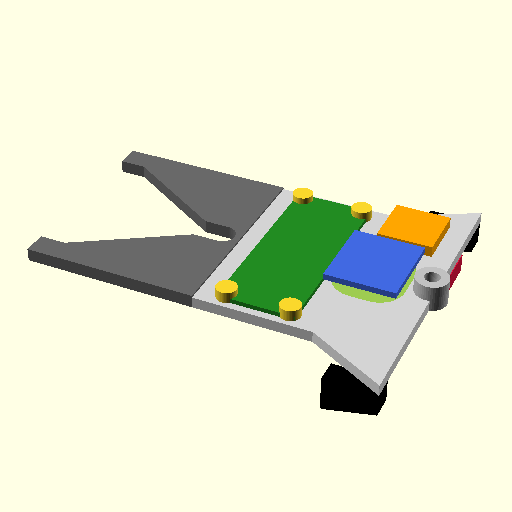
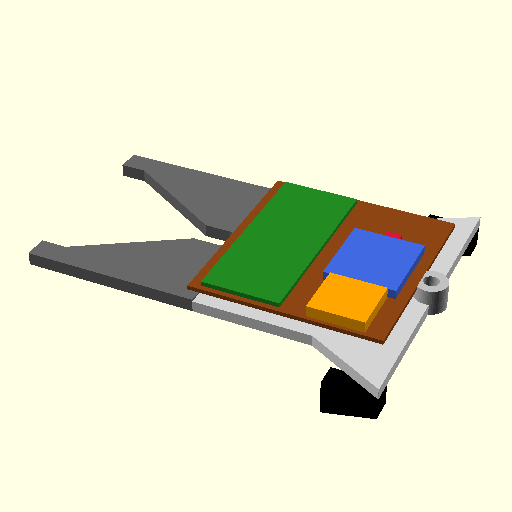
Fixture: consolidate electronics onto one shared strip-board PCB
The deck now explicitly plays the role of the PMW3360 datasheet's
"Customer Supplied Base Plate with Recommended Opening" (Fig. 8),
documented as such in the header. Adds shared_pcb(): a single 1.11mm
strip board mounted on standoffs above the deck (Fig. 4's PCB-to-base-
plate gap) carrying the Pico 2 W, PMW3360, ICM-42688-P, and IR lap
sensor together, wired point-to-point along its copper strips instead
of as four separate breakouts — replacing the old individual
pico_mount()/icm_mount()/pmw_chip_visual().

The IR sensor is sized from real datasheets (tmp/QRE1113.pdf,
tmp/TCRT5000.pdf): QRE1113's low-profile through-hole body fits the
fixture's ground clearance, while TCRT5000's 7mm body does not. Its
sensing body still hangs below the deck on bent leads through a new
ir_lead_hole(), positioned by the same layout math as the rest of the
board. Verified no component footprints overlap and the board fits
within spine_width.

Claude-Session: https://claude.ai/code/session_01VB3CcWWzDiHBSoPq5HJz8G

Changed region(s): [[0.0312, 0.2812, 0.9375, 0.8125], [0.7812, 0.6562, 0.8125, 0.6875], [0.7188, 0.8125, 0.75, 0.8438]]

diff --git a/CLAUDE.md b/CLAUDE.md
@@ -26,7 +26,7 @@ The physical build is a cut-and-graft of a donor **Scaleauto HS-124** slot car c
 - `a6_binary.py` — **historical, not used by current firmware.** A desktop-only conversion script (adapted from `mrjohnk/ADNS-9800`) that embeds the *ADNS-9800's* SROM as a `frame` byte array and writes it to `adns_9800_srom_a6.bin` when run with `python a6_binary.py` on a regular computer. Left in place as a worked example of "how to turn a vendor SROM binary into a Python byte array" — that's the technique still needed for `pmw3360.py`'s placeholder, just with the PMW3360's own SROM file instead of the ADNS-9800's.
 - `wifimanager.py` — an async `WiFiManager` class (`network` + `asyncio`, MicroPython-only) that connects to a list of known SSIDs and monitors/reconnects. Hardcoded `WIFI_NETWORKS` credentials near the bottom are placeholders. Standalone: not currently imported by `main.py`.
 - `README.md` — the *original* design notes/scratchpad, from before this project settled on PMW3360/ICM-42688-P/Pico 2 W — largely superseded by `DESIGN.md` now. Its SROM/SD-card conversion walkthrough is ADNS-9800-specific and no longer the plan.
-- `cad/fixture.scad` — parametric OpenSCAD model of the front sensor fixture (`DESIGN.md` §7). All donor-chassis dimensions are now from calipers, including the front-of-motor carrier's wedge-and-tab profile (`tmp/chassis-front-of-motor.jpeg`) that the kept rear section presents at the cut instead of a flat face — `carrier_interface()` notches the fixture's leading edge to mirror that exact outline (a flush, self-aligning butt joint, `carrier_h` = 3.5mm thick to match), which elongated the fixture to a measured 102.5mm total (up from the original ~65mm estimate) so the Pico/sensor zone ahead of the interface keeps the same usable length it had before — still tight enough that the Pico 2 W is mounted rotated 90° to fit. The second (rear) guide pin no longer has fixture-side geometry (no more `rear_guide_mount()`); it now uses a small pre-existing hole near the carrier's tab tip instead of a molded boss. Still not print-ready: component footprints (PMW3360/ICM-42688-P/IR module) are typical/placeholder pending the actual parts bought. Render with `openscad --autocenter --viewall -o preview.png cad/fixture.scad`; its `echo()` output reports the computed fixture length, the lever-arm `r` for the fusion loop's correction (`DESIGN.md` §2), the carrier interface dimensions, and flags any sensor standoff margin that comes out negative.
+- `cad/fixture.scad` — parametric OpenSCAD model of the front sensor fixture (`DESIGN.md` §7). All donor-chassis dimensions are now from calipers, including the front-of-motor carrier's wedge-and-tab profile (`tmp/chassis-front-of-motor.jpeg`) that the kept rear section presents at the cut instead of a flat face — `carrier_interface()` notches the fixture's leading edge to mirror that exact outline (a flush, self-aligning butt joint, `carrier_h` = 3.5mm thick to match), which elongated the fixture to a measured 102.5mm total (up from the original ~65mm estimate). The second (rear) guide pin no longer has fixture-side geometry (no more `rear_guide_mount()`); it now uses a small pre-existing hole near the carrier's tab tip instead of a molded boss. The deck itself IS the PMW3360 datasheet's (`tmp/C20612443.pdf`) "Customer Supplied Base Plate with Recommended Opening" (Fig. 8) — `pmw_lens_pocket()` cuts that exact stepped opening into it (an outer counterbore leaving the datasheet's recommended 2.4mm base-plate thickness, plus a smaller through-hole for the optical path), sized from the real PMW3360DM-T2QU + LM19-LSI mechanical drawing rather than a generic placeholder. `shared_pcb()` models the datasheet's "Customer Supplied PCB" counterpart (Fig. 5): one 1.11mm strip board, mounted on standoffs above the deck, carrying the Pico 2 W (rotated 90° to fit — still tight), the PMW3360 chip, the ICM-42688-P, and the IR lap sensor together, wired point-to-point along the board's copper strips rather than as four separate breakouts; only the PMW3360's lens and the IR sensor's bent leads reach back down through the deck (`pmw_lens_pocket()` / `ir_lead_hole()`). The IR sensor is sized as QRE1113 (measured from `tmp/QRE1113.pdf`) rather than TCRT5000 (`tmp/TCRT5000.pdf`), since TCRT5000's 7mm body doesn't fit the fixture's available ground clearance. Still not print-ready: the ICM-42688-P footprint is a typical/placeholder value, and the PMW3360 lens pocket simplifies Fig. 8's real tapered "D"-shaped opening into straight rounded rectangles. Render with `openscad --autocenter --viewall -o preview.png cad/fixture.scad`; its `echo()` output reports the computed fixture length, the lever-arm `r` for the fusion loop's correction (`DESIGN.md` §2), the carrier interface and PMW3360 pocket dimensions, the shared PCB's computed footprint, and flags any standoff or board-width margin that comes out negative/oversized.
 - `electronics/electronics.kicad_sch` — single-sheet KiCad schematic covering every electrical component (`DESIGN.md` §3 addendum): rail power input, reverse-polarity protection, buck-boost regulator, supercap (with an R1+D2 charge-inrush limiter — DESIGN.md §4), Pico 2 W, PMW3360, ICM-42688-P, IR reflectance sensor. Passes ERC clean. The GPIO pin assignments it settled (SPI0 on GPIO10-13, PMW3360 MOTION on GPIO14, I2C0 on GPIO4/5, ICM interrupt on GPIO6, IR sensor on GPIO26/ADC0) are exactly what `main.py` uses. Regulator/sensor modules are drawn as generic labeled connectors, not real part symbols — see the schematic's own text notes. `electronics/preview.png` is a rendered reference; regenerate with `kicad-cli sch export svg`.
 - `sim/simulate_track_run.py` — desktop-only (plain Python, no MicroPython/hardware deps) generator of the sensor data `main.py` should see driving a real track: parses a lane out of an SVG track plan (`tmp/bolton-track.svg`), builds a curvature-limited speed profile, and synthesizes PMW3360/ICM-42688-P/IR readings including realistic noise/bias — output at `sim/expected_track_run.csv`, over `N_LAPS` (5) continuous simulated laps. Also re-runs `main.py`'s own fusion math over its synthetic output as a validation check (the `recon_*` columns) and emits `sim/expected_firmware_log.csv`, formatted exactly like the real on-device `track_log.csv` (used to test `tools/closed_loop_correct.py` without hardware). Re-run after changing any constant it mirrors from `main.py` (CPI, `LEVER_ARM_MM`, `LAP_THRESHOLD`, `LAPS_TO_RECORD`) to keep it in sync.
 - `tools/plot_track_csv.py` — renders either CSV shape this project produces (the firmware's `track_log.csv`, or the simulator's `expected_track_run.csv`) as a browsable SVG map. Auto-detects which by column names. For the simulator shape, overlays ground truth against the reconstructed path — note it rotates the reconstruction by the true initial heading before overlaying, because `main.py`'s (x,y) frame has its x-axis aligned to the car's *initial* heading, not the world's absolute X axis; skipping that rotation is what made an early version of this comparison look far worse than the reconstruction actually is.
